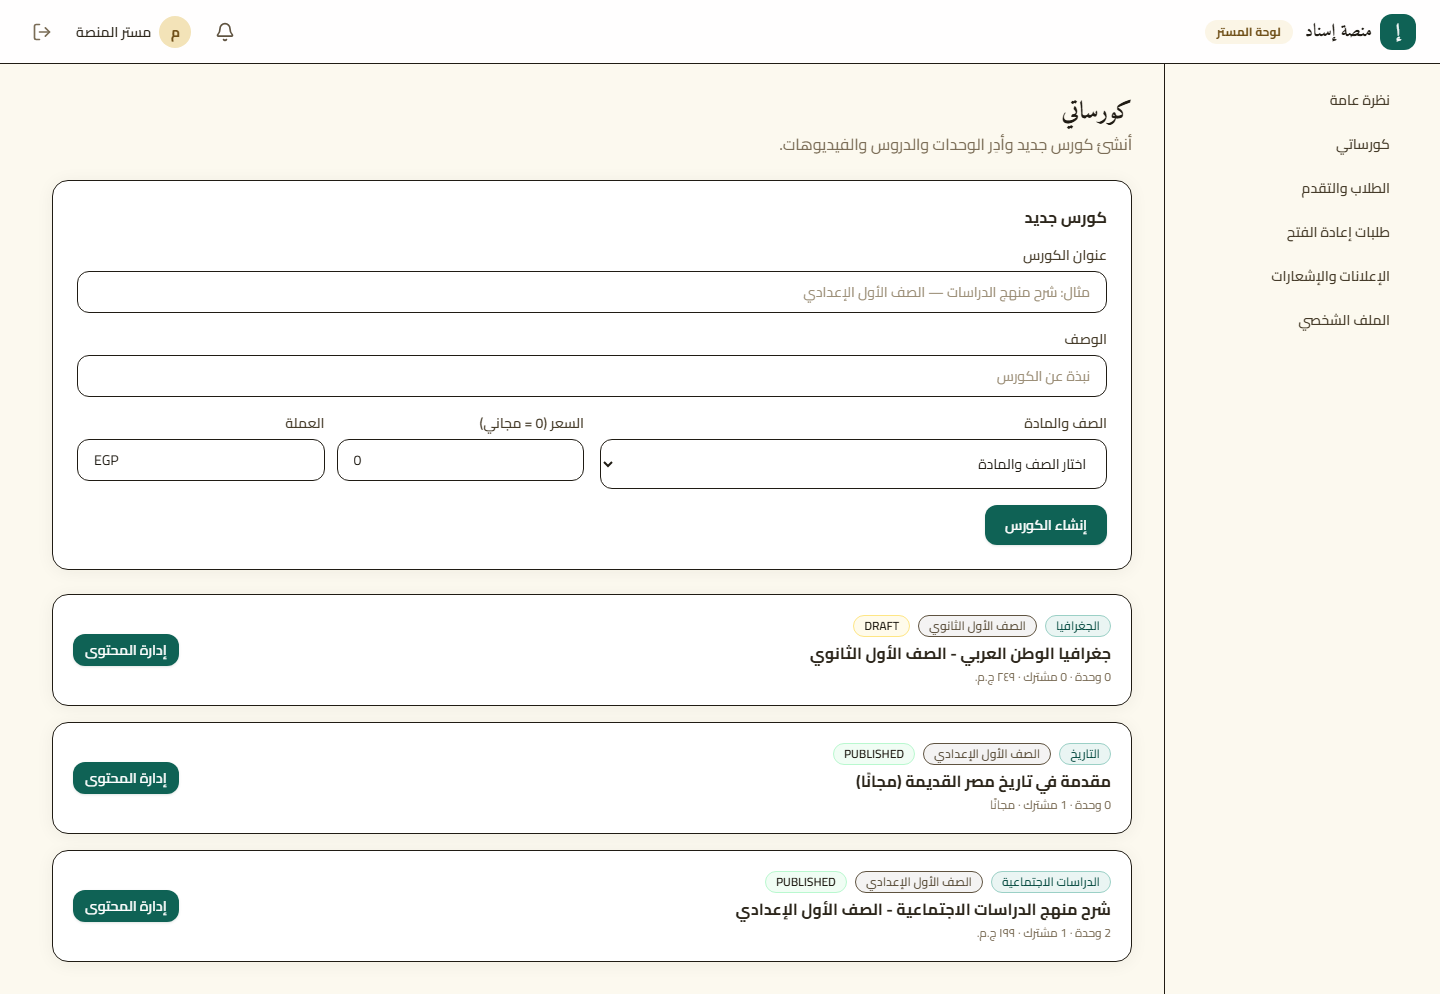
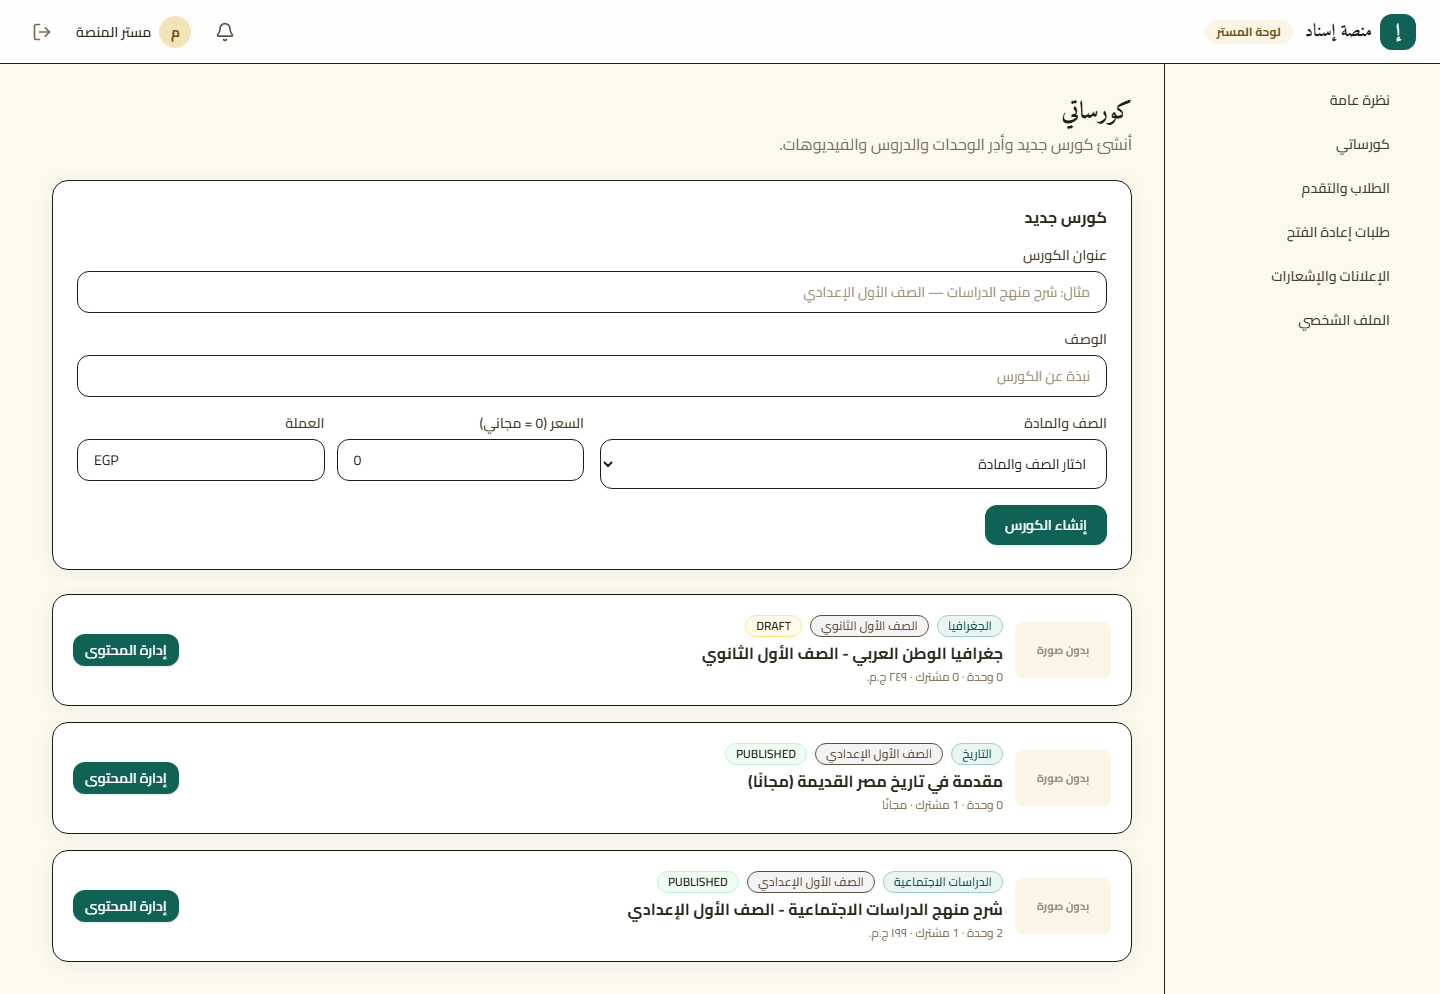
Course cover image: teacher upload + display on all cards

Changed region(s): [[0.4375, 0.8732, 0.7812, 0.9668], [0.5, 0.6237, 0.7812, 0.6861], [0.5, 0.7485, 0.7812, 0.8109]]

diff --git a/src/app/dashboard/teacher/courses/[courseId]/page.tsx b/src/app/dashboard/teacher/courses/[courseId]/page.tsx
@@ -9,6 +9,8 @@ import { DashboardShell } from "@/components/dashboard-shell";
 import { Card, Badge, Button, Input, Label, Select } from "@/components/ui";
 import { ConfirmSubmitButton } from "@/components/client-widgets";
 import { ActionForm } from "@/components/action-form";
+import { CourseCover } from "@/components/course-cover";
+import { GenericUrlUploader } from "@/components/uploaders";
 import { VideoUploader, FileUploader } from "@/components/uploaders";
 import {
   createModuleAction,
@@ -18,6 +20,7 @@ import {
   deleteLessonAction,
   setCourseStatusAction,
   deleteCourseAction,
+  updateCourseThumbnailAction,
 } from "@/server/actions/courses";
 
 export const dynamic = "force-dynamic";
@@ -101,7 +104,19 @@ export default async function TeacherCourseDetailPage({ params }: { params: Prom
         </div>
       </div>
 
-      <Card className="p-6">
+      <Card className="overflow-hidden">
+        <CourseCover thumbnailUrl={course.thumbnailUrl} title={course.title} className="h-44" />
+        <div className="p-6">
+          <p className="font-bold text-ink-800">صورة غلاف الكورس</p>
+          <p className="mt-1 text-xs text-ink-500">ارفع صورة من جهازك (يفضل 1280×720) — هتظهر في كل كروت الموقع.</p>
+          <ActionForm action={updateCourseThumbnailAction.bind(null, course.id)} className="mt-3 flex flex-wrap items-center gap-3">
+            <GenericUrlUploader hiddenInputName="thumbnailUrl" folder="thumbnails" accept="image/*" label="اختيار صورة الغلاف" />
+            <Button type="submit" size="sm">حفظ الصورة</Button>
+          </ActionForm>
+        </div>
+      </Card>
+
+      <Card className="mt-6 p-6">
         <p className="font-bold text-ink-800">وحدة جديدة</p>
         <ActionForm action={createModuleAction.bind(null, course.id)} className="mt-3 flex gap-2">
           <Input name="title" required placeholder="عنوان الوحدة" className="flex-1" />

diff --git a/src/app/explore/[grade]/[subject]/page.tsx b/src/app/explore/[grade]/[subject]/page.tsx
@@ -6,6 +6,7 @@ import { grades, subjects, courses, users } from "@/db/schema";
 import { SiteHeader } from "@/components/site-header";
 import { SiteFooter } from "@/components/site-footer";
 import { Card, Badge, Button, EmptyState, SectionHeading } from "@/components/ui";
+import { CourseCover } from "@/components/course-cover";
 import { formatCurrency } from "@/lib/utils";
 
 export const dynamic = "force-dynamic";
@@ -31,6 +32,7 @@ export default async function GradeSubjectCoursesPage({
       description: courses.description,
       price: courses.price,
       currency: courses.currency,
+      thumbnailUrl: courses.thumbnailUrl,
       teacherName: users.name,
     })
     .from(courses)
@@ -45,7 +47,9 @@ export default async function GradeSubjectCoursesPage({
         <SectionHeading eyebrow={`${grade.name} · ${subject.name}`} title="الكورسات المتاحة" />
         <div className="mt-10 grid gap-6 sm:grid-cols-2 lg:grid-cols-3">
           {courseRows.map((c) => (
-            <Card key={c.id} className="flex flex-col p-6">
+            <Card key={c.id} className="flex flex-col overflow-hidden">
+              <CourseCover thumbnailUrl={c.thumbnailUrl} title={c.title} />
+              <div className="flex flex-1 flex-col p-6">
               <Badge tone="primary" className="w-fit">{subject.name}</Badge>
               <p className="mt-3 font-display text-lg font-bold text-ink-900">{c.title}</p>
               <p className="mt-2 line-clamp-3 flex-1 text-sm text-ink-500">{c.description}</p>
@@ -56,6 +60,7 @@ export default async function GradeSubjectCoursesPage({
                 </span>
               </div>
               <Button href={`/courses/${c.slug}`} className="mt-4 w-full">عرض التفاصيل</Button>
+              </div>
             </Card>
           ))}
           {courseRows.length === 0 && (

diff --git a/src/app/dashboard/teacher/courses/page.tsx b/src/app/dashboard/teacher/courses/page.tsx
@@ -23,6 +23,7 @@ export default async function TeacherCoursesPage() {
       price: courses.price,
       currency: courses.currency,
       status: courses.status,
+      thumbnailUrl: courses.thumbnailUrl,
       gradeName: grades.name,
       subjectName: subjects.name,
     })
@@ -96,7 +97,13 @@ export default async function TeacherCoursesPage() {
       <div className="mt-6 grid gap-4">
         {listedCourses.map((c) => (
           <Card key={c.id} className="flex flex-wrap items-center justify-between gap-3 p-5">
-            <div>
+            <div className="flex items-center gap-3">
+              {c.thumbnailUrl ? (
+                <img src={c.thumbnailUrl} alt={`غلاف ${c.title}`} loading="lazy" className="h-14 w-24 rounded-lg object-cover" />
+              ) : (
+                <span className="grid h-14 w-24 place-items-center rounded-lg bg-papyrus-100 text-[11px] font-bold text-ink-400">بدون صورة</span>
+              )}
+              <div>
               <div className="mb-1 flex gap-2">
                 <Badge tone="primary">{c.subjectName}</Badge>
                 <Badge tone="neutral">{c.gradeName}</Badge>
@@ -107,6 +114,7 @@ export default async function TeacherCoursesPage() {
                 {statById.get(c.id)?.modules ?? 0} وحدة · {statById.get(c.id)?.enrollments ?? 0} مشترك ·{" "}
                 {Number(c.price) === 0 ? "مجانًا" : formatCurrency(c.price, c.currency)}
               </p>
+              </div>
             </div>
             <Button href={`/dashboard/teacher/courses/${c.id}`} size="sm">إدارة المحتوى</Button>
           </Card>

diff --git a/src/server/actions/courses.ts b/src/server/actions/courses.ts
@@ -118,6 +118,32 @@ export async function deleteCourseAction(courseId: string) {
   redirect("/dashboard/teacher/courses");
 }
 
+const thumbnailSchema = z.object({
+  thumbnailUrl: z.string().min(1, "ارفع صورة الغلاف أولاً").max(2000),
+});
+
+export async function updateCourseThumbnailAction(courseId: string, _prev: ActionState, formData: FormData): Promise<ActionState> {
+  const teacher = await requireRole("TEACHER", "ADMIN");
+  await assertCourseOwnership(courseId, teacher.id, teacher.role);
+
+  const parsed = thumbnailSchema.safeParse({ thumbnailUrl: formData.get("thumbnailUrl") });
+  if (!parsed.success) return { error: parsed.error.issues[0]?.message ?? "بيانات غير صحيحة" };
+  if (!parsed.data.thumbnailUrl.startsWith("/uploads/") && !parsed.data.thumbnailUrl.startsWith("http")) {
+    return { error: "رابط الصورة غير صالح" };
+  }
+
+  await db
+    .update(courses)
+    .set({ thumbnailUrl: parsed.data.thumbnailUrl, updatedAt: new Date() })
+    .where(eq(courses.id, courseId));
+
+  await logAudit(teacher.id, "UPDATE_THUMBNAIL", "course", courseId, {});
+  revalidatePath(`/dashboard/teacher/courses/${courseId}`);
+  revalidatePath("/explore");
+  revalidatePath("/");
+  return { success: "تم حفظ صورة الغلاف" };
+}
+
 // ---------------- Modules ----------------
 export async function createModuleAction(courseId: string, _prev: ActionState, formData: FormData): Promise<ActionState> {
   const teacher = await requireRole("TEACHER", "ADMIN");

diff --git a/src/app/page.tsx b/src/app/page.tsx
@@ -18,6 +18,7 @@ import { db } from "@/db";
 import { grades, subjects, courses, users, lessons, enrollments, educationalStages } from "@/db/schema";
 import { SiteHeader } from "@/components/site-header";
 import { SiteFooter } from "@/components/site-footer";
+import { CourseCover } from "@/components/course-cover";
 import { Button, Card, Badge, SectionHeading, StatCard } from "@/components/ui";
 import { formatCurrency } from "@/lib/utils";
 
@@ -46,6 +47,7 @@ export default async function HomePage() {
         description: courses.description,
         price: courses.price,
         currency: courses.currency,
+        thumbnailUrl: courses.thumbnailUrl,
         gradeName: grades.name,
         subjectName: subjects.name,
         teacherName: users.name,
@@ -262,9 +264,7 @@ export default async function HomePage() {
           <div className="mt-8 grid gap-6 sm:grid-cols-2 lg:grid-cols-3">
             {featuredCourses.map((c) => (
               <Card key={c.id} className="flex flex-col overflow-hidden">
-                <div className="flex h-32 items-center justify-center bg-gradient-to-br from-primary-600 to-primary-800 text-white">
-                  <ScrollText className="h-10 w-10 opacity-80" />
-                </div>
+                <CourseCover thumbnailUrl={c.thumbnailUrl} title={c.title} />
                 <div className="flex flex-1 flex-col p-5">
                   <div className="mb-2 flex gap-2">
                     <Badge tone="primary">{c.subjectName}</Badge>

diff --git a/src/app/dashboard/student/courses/page.tsx b/src/app/dashboard/student/courses/page.tsx
@@ -19,6 +19,7 @@ export default async function StudentCoursesPage() {
       courseId: courses.id,
       slug: courses.slug,
       title: courses.title,
+      thumbnailUrl: courses.thumbnailUrl,
       gradeName: grades.name,
       subjectName: subjects.name,
     })
@@ -42,12 +43,17 @@ export default async function StudentCoursesPage() {
         {withProgress.map((c) => (
           <Card key={c.courseId} className="p-5">
             <div className="flex flex-wrap items-center justify-between gap-3">
-              <div>
+              <div className="flex items-center gap-3">
+                {c.thumbnailUrl ? (
+                  <img src={c.thumbnailUrl} alt={`غلاف ${c.title}`} loading="lazy" className="h-14 w-24 rounded-lg object-cover" />
+                ) : null}
+                <div>
                 <div className="mb-1 flex gap-2">
                   <Badge tone="primary">{c.subjectName}</Badge>
                   <Badge tone="neutral">{c.gradeName}</Badge>
                 </div>
                 <p className="font-bold text-ink-800">{c.title}</p>
+                </div>
               </div>
               <Button href={`/dashboard/student/courses/${c.courseId}`} size="sm">ادخل الكورس</Button>
             </div>

diff --git a/src/components/course-cover.tsx b/src/components/course-cover.tsx
@@ -1,0 +1,29 @@
+import { ScrollText } from "lucide-react";
+import { cn } from "@/lib/utils";
+
+/** Course cover: teacher-uploaded image, or a branded gradient fallback. */
+export function CourseCover({
+  thumbnailUrl,
+  title,
+  className,
+}: {
+  thumbnailUrl?: string | null;
+  title: string;
+  className?: string;
+}) {
+  if (thumbnailUrl) {
+    return (
+      <img
+        src={thumbnailUrl}
+        alt={`غلاف كورس ${title}`}
+        loading="lazy"
+        className={cn("h-32 w-full object-cover", className)}
+      />
+    );
+  }
+  return (
+    <div className={cn("flex h-32 items-center justify-center bg-gradient-to-br from-primary-600 to-primary-800 text-white", className)}>
+      <ScrollText className="h-10 w-10 opacity-80" />
+    </div>
+  );
+}

diff --git a/src/app/courses/[courseSlug]/page.tsx b/src/app/courses/[courseSlug]/page.tsx
@@ -167,7 +167,10 @@ export default async function CourseDetailPage({ params }: { params: Promise<{ c
         </div>
 
         <div>
-          <Card className="sticky top-24 p-6">
+          <Card className="sticky top-24 overflow-hidden p-6 pt-0">
+            {course.thumbnailUrl && (
+              <img src={course.thumbnailUrl} alt={`غلاف كورس ${course.title}`} className="-mx-6 mb-4 h-44 w-[calc(100%+3rem)] object-cover" />
+            )}
             <p className="font-display text-3xl font-bold text-primary-700">
               {Number(course.price) === 0 ? "مجانًا" : formatCurrency(course.price, course.currency)}
             </p>
